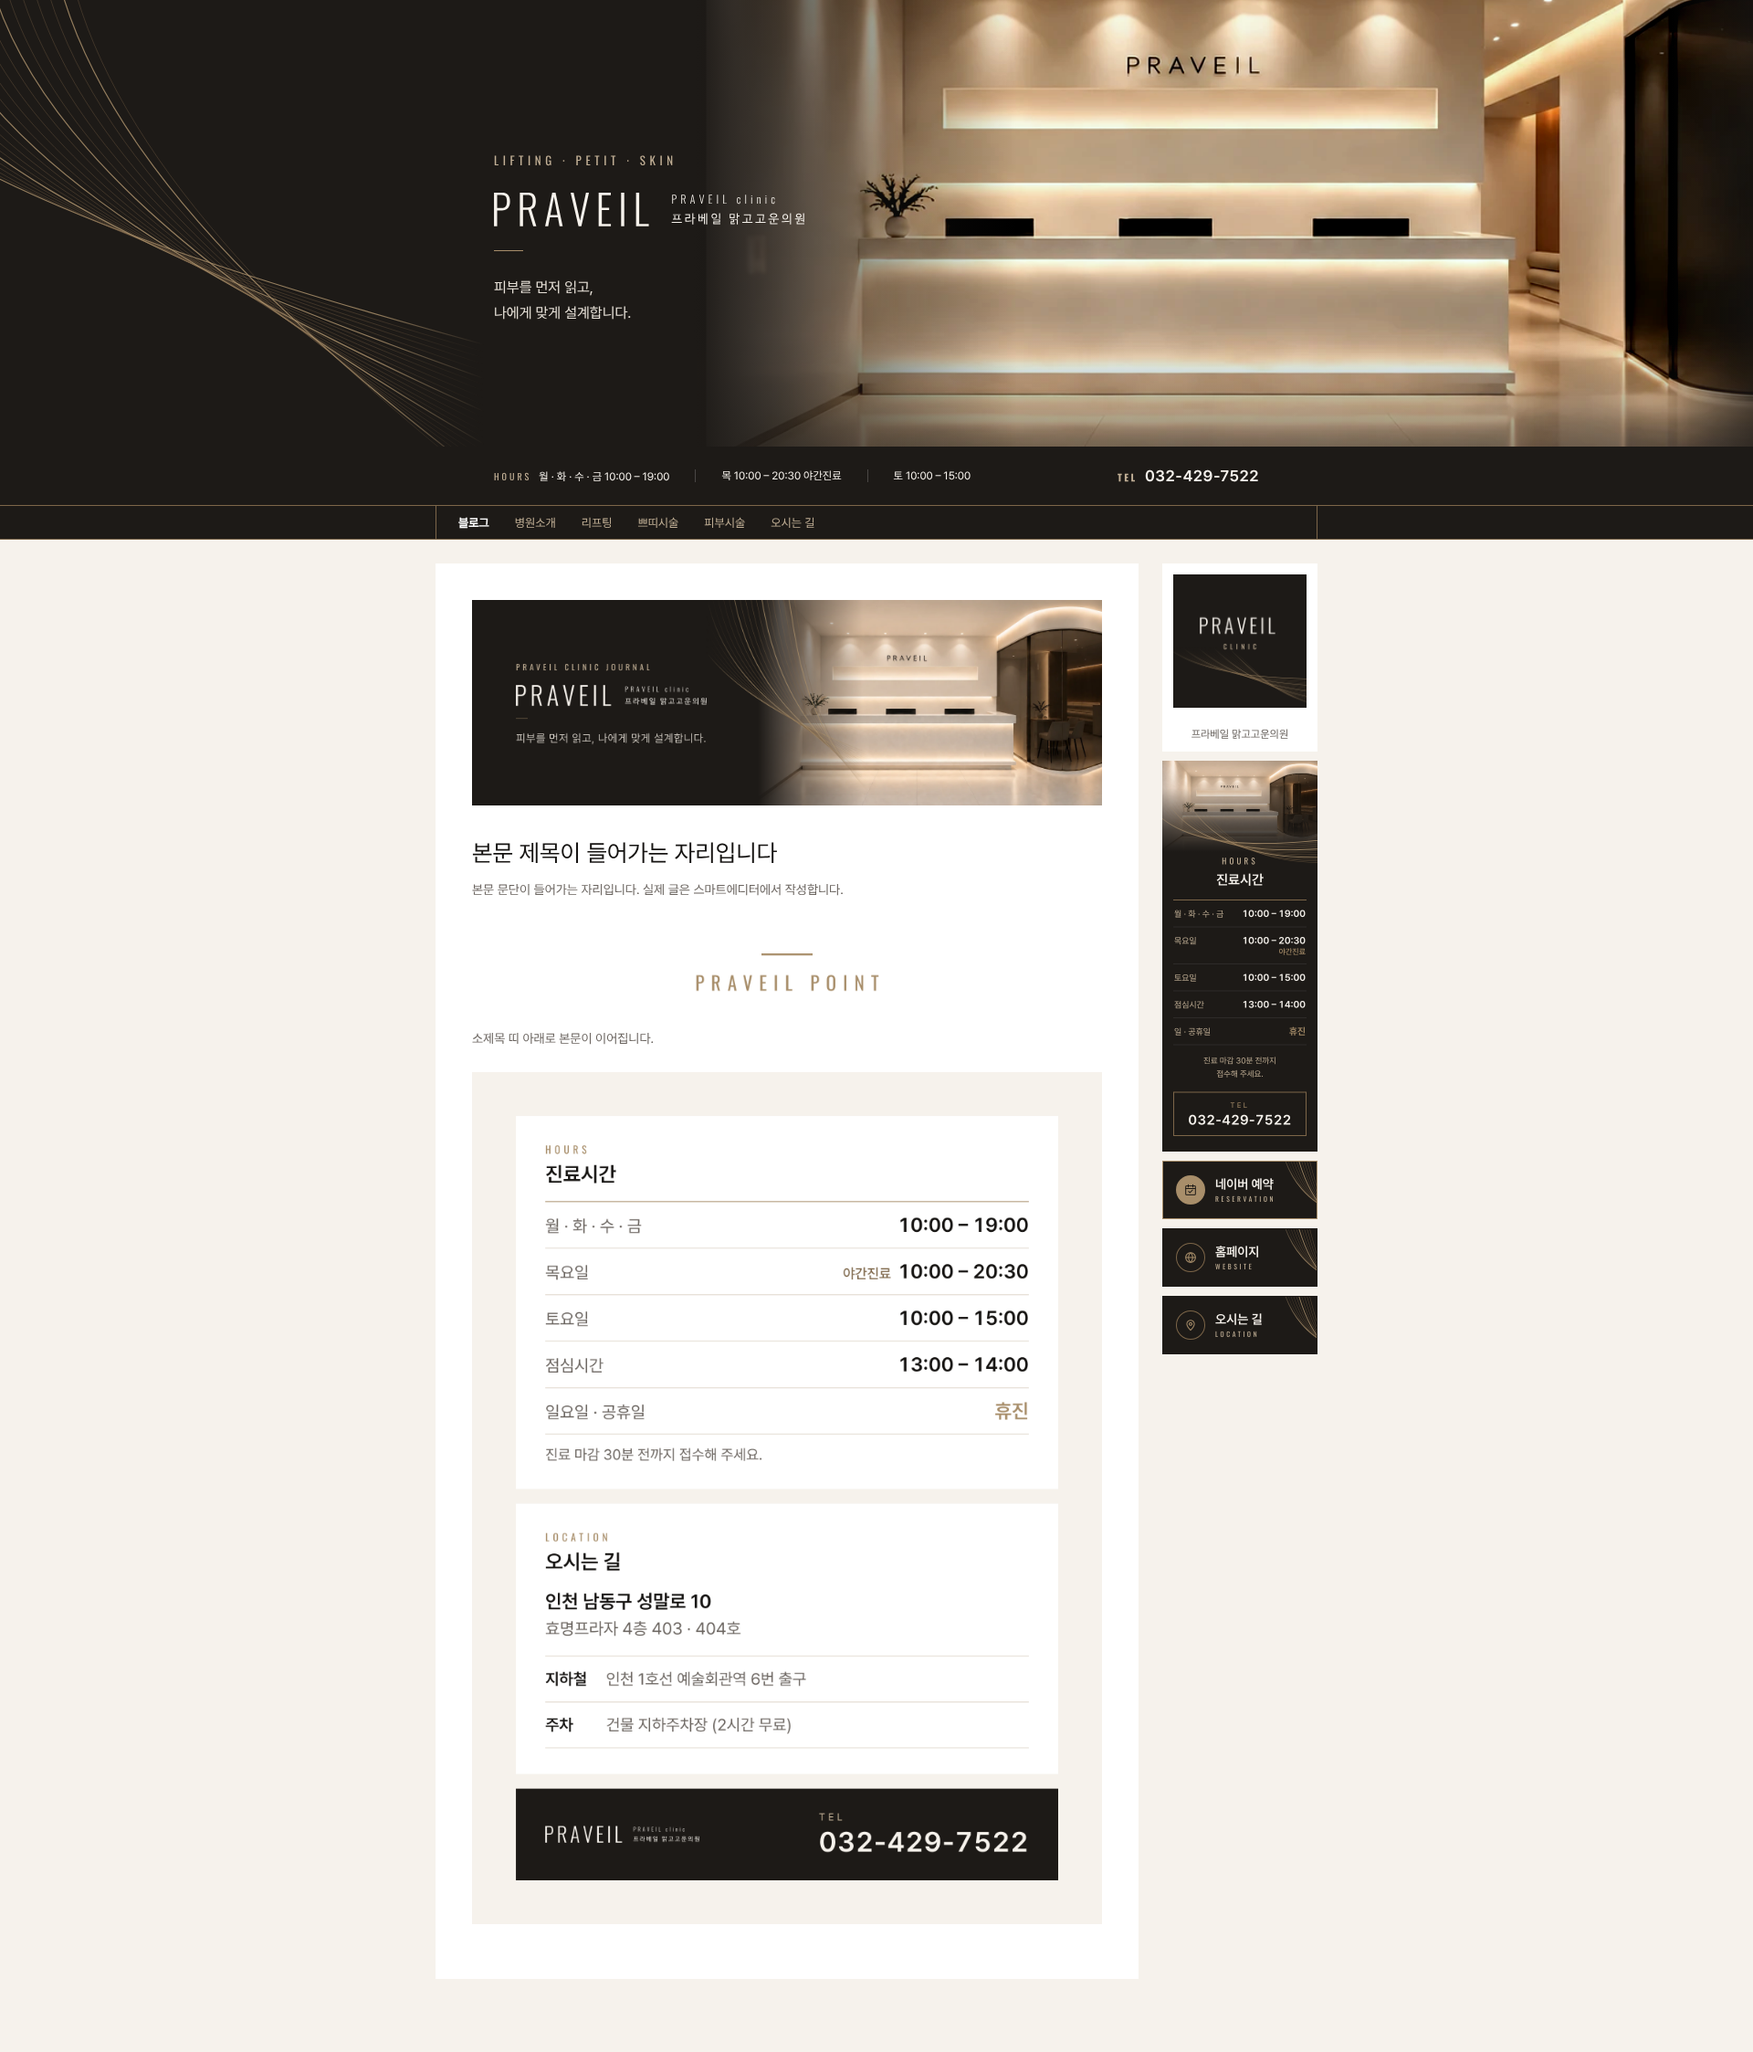
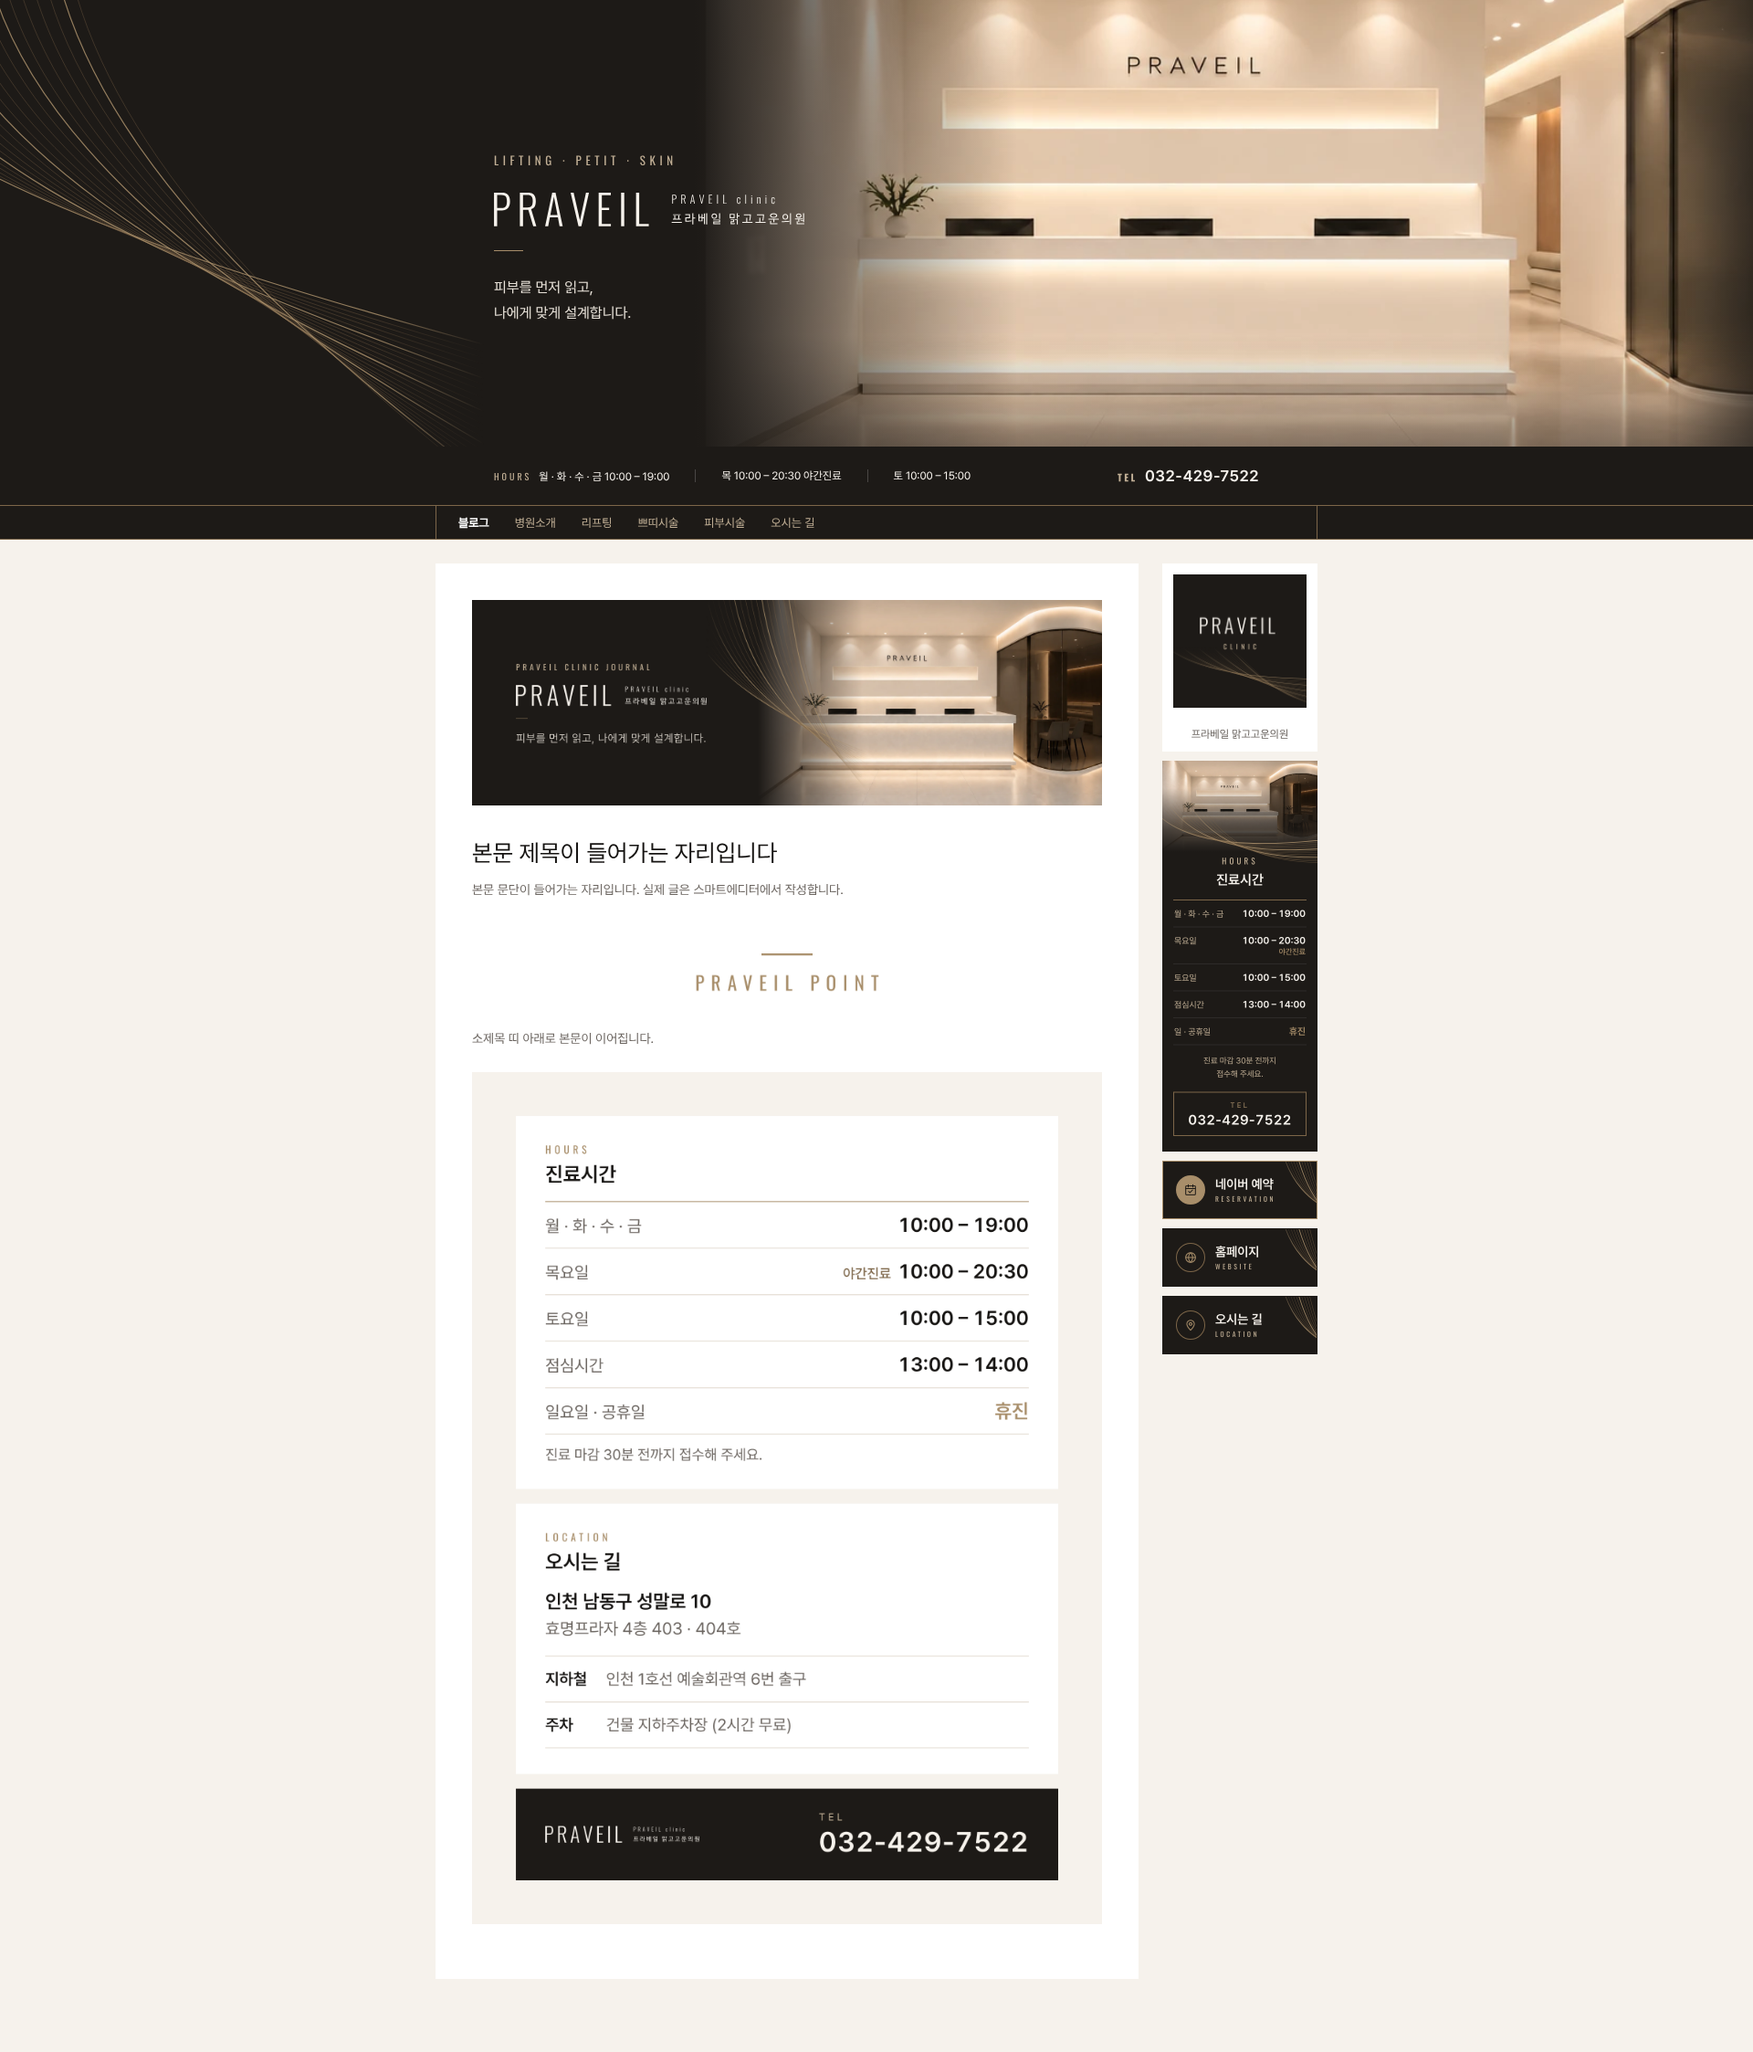
스킨 배경 입구 사진을 병원이 보정한 사진으로 교체 (색 보정 필터 제거)
Claude-Session: https://claude.ai/code/session_01Ld2YJmc6iArSkVBjrjkKUN

Changed region(s): [[0.4688, 0.0, 1.0, 0.2181]]

diff --git a/docs/naver-blog-skin/skin.html b/docs/naver-blog-skin/skin.html
@@ -164,8 +164,6 @@
         top: -288px;
         width: 1920px;
         height: 1080px;
-        /* 색감을 이전 로비 사진에 맞춤 (채널별 밝기 · 대비, 아래 svg 필터) */
-        filter: url(#match-lobby);
       }
       /* 글씨 쪽은 짙게, 사진 쪽은 밝게. 양 끝은 짙은 색으로 맞춰 가로 반복해도 이음매가 없음 */
       #background .shade {
@@ -800,15 +798,6 @@
 
     <!-- 2. 스킨 배경: 화면 전체 폭 머리 (로비 사진 + 왼쪽 비단 곡선) -->
     <section class="asset hb" id="background">
-      <svg width="0" height="0" style="position: absolute">
-        <filter id="match-lobby" color-interpolation-filters="sRGB">
-          <feComponentTransfer>
-            <feFuncR type="linear" slope="1.209" intercept="-0.241" />
-            <feFuncG type="linear" slope="1.27" intercept="-0.2" />
-            <feFuncB type="linear" slope="1.3" intercept="-0.155" />
-          </feComponentTransfer>
-        </filter>
-      </svg>
       <div class="shot">
         <img class="photo" src="assets/lobby-entrance.webp" />
       </div>
